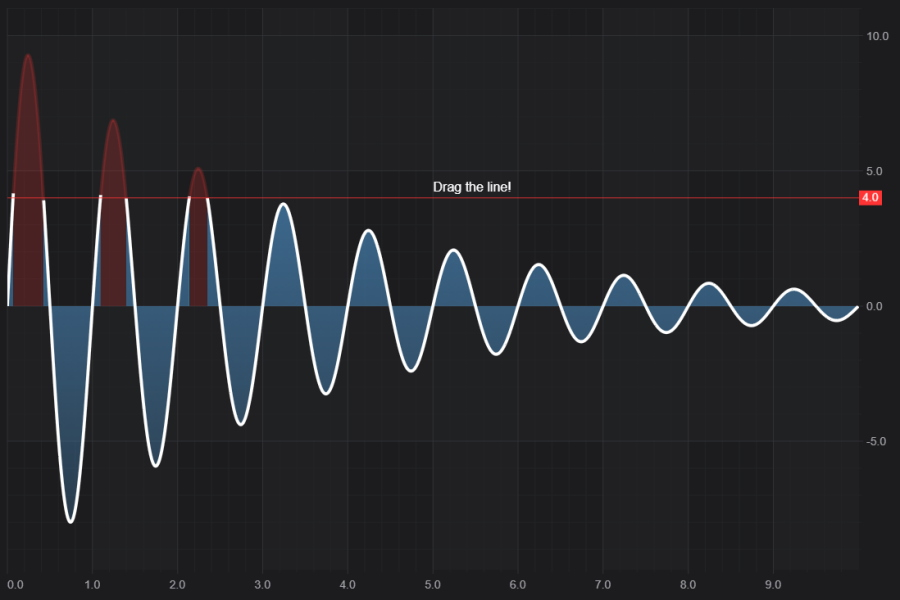
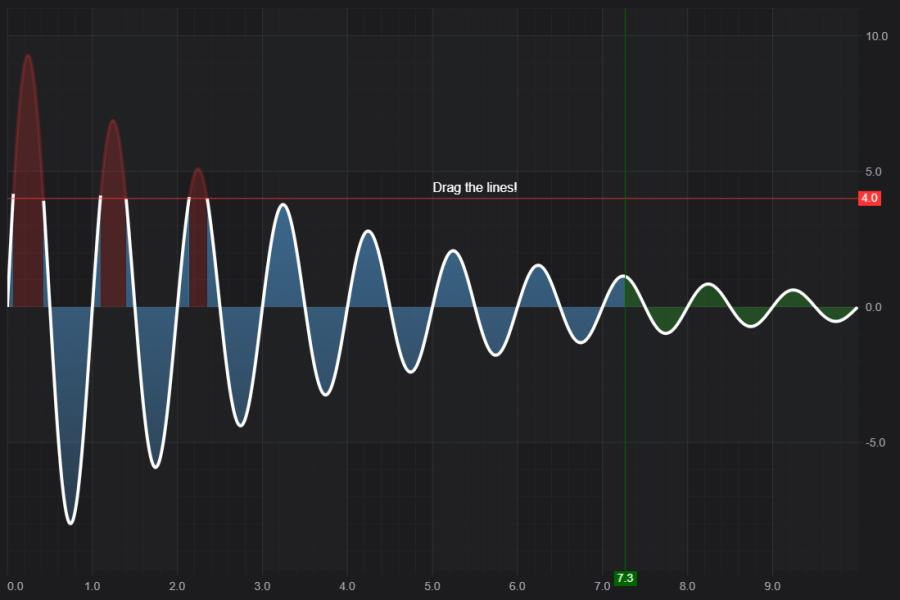
chore(Examples) Updated the source for drag threshold example

diff --git a/Examples/src/components/Examples/Charts2D/ChartAnnotations/DragHorizontalThreshold/index.tsx b/Examples/src/components/Examples/Charts2D/ChartAnnotations/DragHorizontalThreshold/index.tsx
@@ -24,6 +24,8 @@ import {ECoordinateMode} from "scichart/Charting/Visuals/Annotations/AnnotationB
[1 lines of base64/hex data omitted]
 import {GradientParams} from "scichart/Core/GradientParams";
 import {Point} from "scichart/Core/Point";
+import {VerticalLineAnnotation} from "scichart/Charting/Visuals/Annotations/VerticalLineAnnotation";
+import {BoxAnnotation} from "scichart/Charting/Visuals/Annotations/BoxAnnotation";
 
 const divElementId = "chart";
 
@@ -40,7 +42,9 @@ const drawExample = async () => {
     );
 
     // Create a paletteprovider to colour the series depending on a threshold value
-    const thresholdPalette = new ThresholdPaletteProvider(4, "#FF333333");
+    const thresholdPalette = new ThresholdPaletteProvider(
+        4, "#FF333333",
+        8, "#33FF3333");
 
     // Add a Column series with some values to the chart
     const { xValues, yValues } = ExampleDataProvider.getDampedSinewave(0, 10, 0, 0.001, 3000, 10);
@@ -69,7 +73,7 @@ const drawExample = async () => {
         x1: 0.5,
         y1: 4.2,
         fontSize: 16,
-        text: "Drag the line!",
+        text: "Drag the lines!",
         textColor: "White",
     });
     // Add a horizontal threshold at Y=5
@@ -83,13 +87,30 @@ const drawExample = async () => {
         onDrag: (args) => {
             // When the horizontal line is dragged, update the
             // threshold palette and redraw the SciChartSurface
-            thresholdPalette.thresholdValue = horizontalLine.y1;
+            thresholdPalette.yThresholdValue = horizontalLine.y1;
             textAnnotation.y1 = horizontalLine.y1 + 0.2;
             sciChartSurface.invalidateElement();
         },
     });
     sciChartSurface.annotations.add(horizontalLine);
     sciChartSurface.annotations.add(textAnnotation);
+
+    // Add a vertical line
+    const verticalLine = new VerticalLineAnnotation({
+        x1: 8,
+        strokeThickness: 2,
+        isEditable: true,
+        showLabel: true,
+        stroke: "DarkGreen",
+        axisLabelFill: "DarkGreen",
+        axisLabelStroke: "White",
+        labelPlacement: ELabelPlacement.Axis,
+        onDrag: (args) => {
+          thresholdPalette.xThresholdValue = verticalLine.x1;
+          sciChartSurface.invalidateElement();
+        },
+    });
+    sciChartSurface.annotations.add(verticalLine);
 
     // Optional: Add some interactivity modifiers
     sciChartSurface.chartModifiers.add(new ZoomPanModifier());
@@ -100,17 +121,22 @@ const drawExample = async () => {
 };
 
 /**
- * A paletteprovider which colours a series if Y-value over a threshold, else use default colour
+ * A paletteprovider which colours a series if X or Y-value over a threshold, else use default colour
  */
 export class ThresholdPaletteProvider implements IFillPaletteProvider, IStrokePaletteProvider {
     public readonly fillPaletteMode: EFillPaletteMode = EFillPaletteMode.GRADIENT;
     public readonly strokePaletteMode: EStrokePaletteMode = EStrokePaletteMode.GRADIENT;
-    public thresholdValue: number;
-    private readonly color: number;
+    public yThresholdValue: number;
+    public xThresholdValue: number;
+    private readonly yColor: number;
+    private readonly xColor: number;
 
-    constructor(thresholdValue: number, color: string) {
-        this.thresholdValue = thresholdValue;
-        this.color = parseColorToUIntArgb(color);
+    constructor(yThresholdValue: number, yColor: string,
+                xThresholdValue: number, xColor: string) {
+        this.yThresholdValue = yThresholdValue;
+        this.yColor = parseColorToUIntArgb(yColor);
+        this.xThresholdValue = xThresholdValue;
+        this.xColor = parseColorToUIntArgb(xColor);
     }
 
     onAttached(parentSeries: IRenderableSeries): void {
@@ -120,11 +146,22 @@ export class ThresholdPaletteProvider implements IFillPaletteProvider, IStrokePa
     }
 
     overrideFillArgb(xValue: number, yValue: number, index: number, opacity?: number): number {
-        return yValue > this.thresholdValue ? this.color : undefined;
+        // When the x-value of the series is greater than the x threshold
+        // fill with the xColor
+        if (xValue > this.xThresholdValue) {
+            return this.xColor;
+        }
+        // When the y-value of the series is greater than the y-threshold,
+        // fill with the y-color
+        if (yValue > this.yThresholdValue) {
+            return this.yColor;
+        }
+        // Undefined means use default color
+        return undefined;
     }
 
     overrideStrokeArgb(xValue: number, yValue: number, index: number, opacity?: number): number {
-        return yValue > this.thresholdValue ? this.color : undefined;
+        return yValue > this.yThresholdValue ? this.yColor : undefined;
     }
 }
 

diff --git a/Examples/src/components/Examples/Charts2D/ChartAnnotations/DragHorizontalThreshold/exampleInfo.tsx b/Examples/src/components/Examples/Charts2D/ChartAnnotations/DragHorizontalThreshold/exampleInfo.tsx
@@ -6,8 +6,8 @@ import { ExampleStrings } from "../../../ExampleStrings";
 import { GalleryItem } from "../../../../../helpers/types/types";
 import { TDocumentationLink } from "../../../../../helpers/types/ExampleDescriptionTypes";
 
-const previewDescription = `Drag Horizontal Threshold demo shows how to add a draggable threshold to the chart and change chart colour based on the threshold value.`;
-const description = `The Drag Horizontal Threshold demo shows how to add a draggable threshold to a JavaScript chart and change chart colour based on the threshold value.`;
+const previewDescription = `Drag Threshold demo shows how to add draggable vertical and horizontal thresholds to the chart and change chart series colour based on the threshold value.`;
+const description = `The Drag Threshold demo shows how to add draggable vertical and horizontal thresholds to a JavaScript chart and change chart series colour based on the threshold value.`;
 const tips = [
     ` All Annotations have an isEditable property. When true, the annotation can be dragged and resized. Chart colouring may be changed via a rule using the PaletteProvider API.`
 ];
@@ -64,8 +64,8 @@ const seeAlso: GalleryItem[] = [
 
 const Subtitle = () => (
     <p>
-        Demonstrates interaction by dragging a horizontal line threhsold.{" "}
-        As the threshold moves, the chart colour updates.
+        Demonstrates interaction by dragging vertical and horizontal line thresholds.{" "}
+        As the thresholds move, the chart colour updates.
     </p>
 );
 
@@ -81,7 +81,7 @@ export const dragHorizontalThresholdExampleInfo: TExampleInfo = {
     code,
     githubUrl,
     seoDescription:
-        "Demonstrates how to add a draggable threshold which changes the series color in SciChart.js",
+        "Demonstrates how to add draggable thresholds which change the series color in the chart in SciChart.js",
     seoKeywords: "trade, markers, demo, chart, javascript, webgl, canvas",
     thumbnailImage: "javascript-chart-drag-horizontal-threshold.jpg"
 };

diff --git a/Examples/src/components/Examples/Charts2D/ChartAnnotations/DragHorizontalThreshold/GENERATED_GITHUB_URL.ts b/Examples/src/components/Examples/Charts2D/ChartAnnotations/DragHorizontalThreshold/GENERATED_GITHUB_URL.ts
@@ -1,1 +1,1 @@
-export const githubUrl = "/components/Examples/Charts2D/ChartAnnotations/TradeMarkers/index.tsx";
+export const githubUrl = "/components/Examples/Charts2D/ChartAnnotations/DragHorizontalThreshold/index.tsx";
